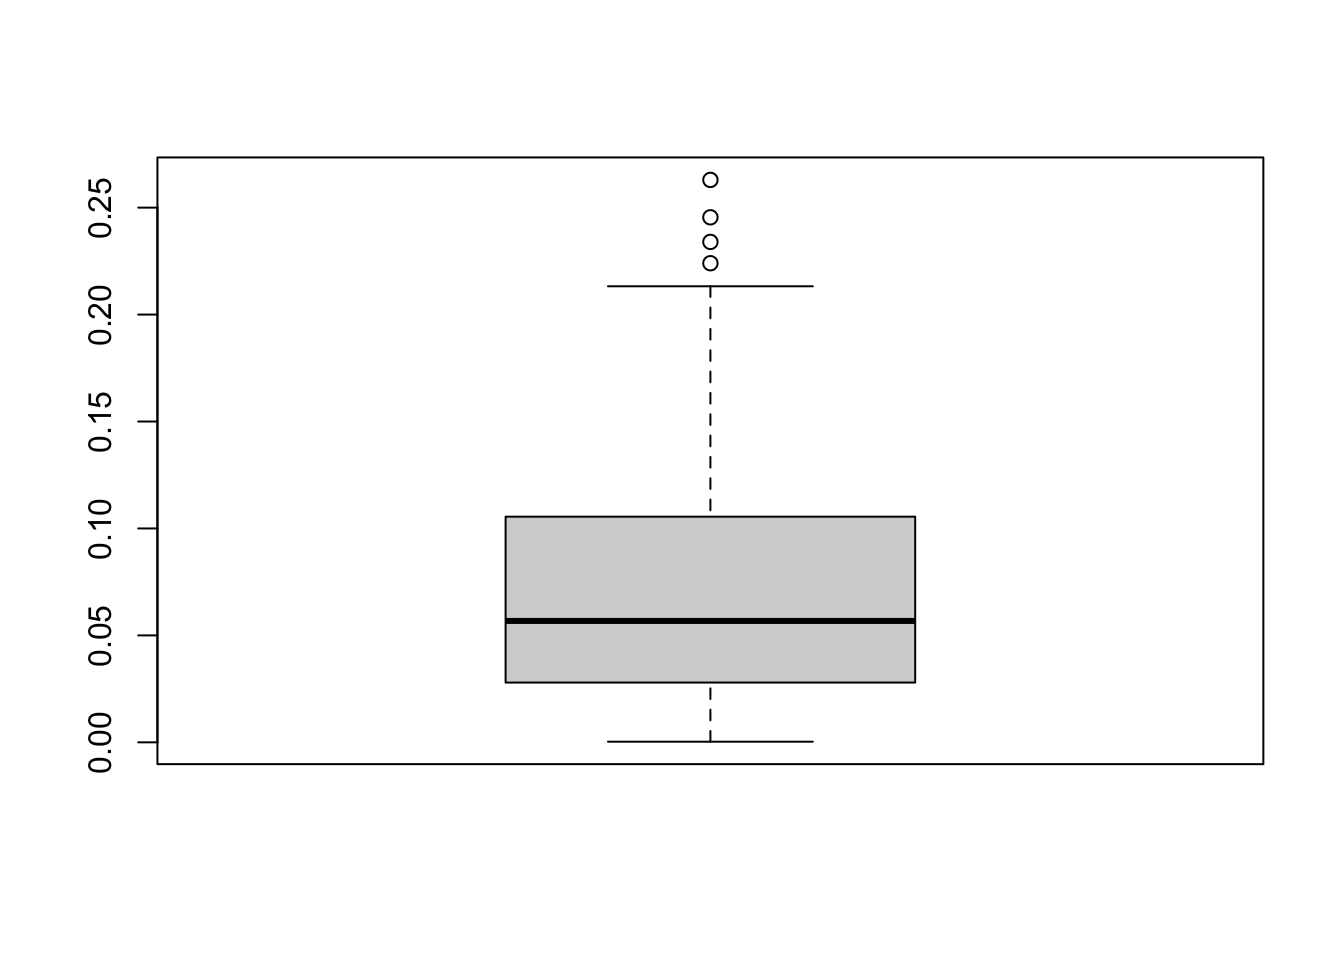
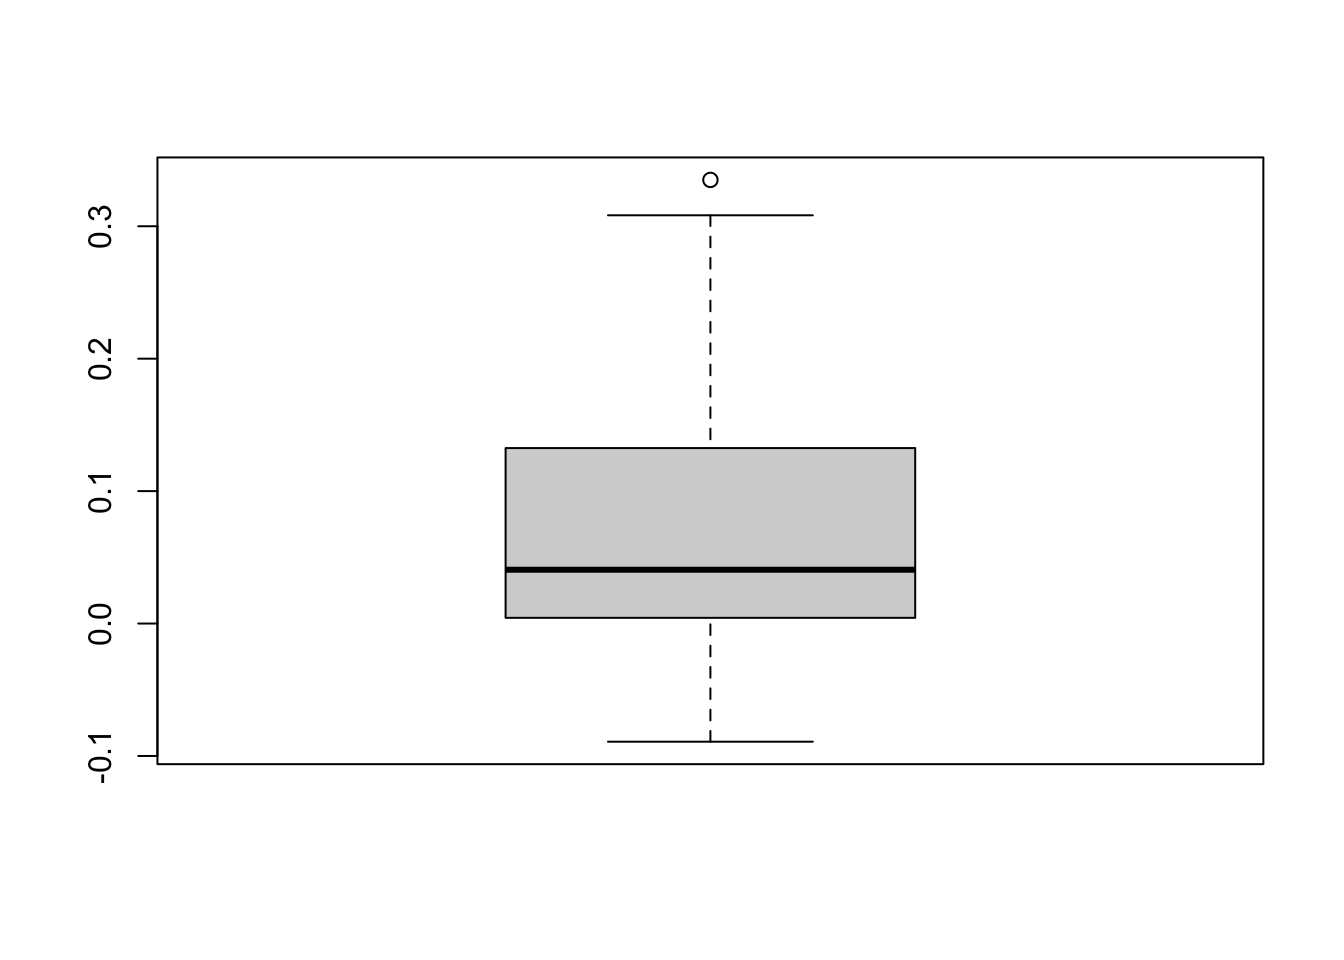
Build site.

diff --git a/docs/informative_prior.html b/docs/informative_prior.html
@@ -381,7 +381,7 @@ class="glyphicon glyphicon-ok text-success" aria-hidden="true"></span>
 <div class="tab-content">
 <div id="summary" class="tab-pane fade in active">
 <p>
-<strong>Last updated:</strong> 2025-02-27
+<strong>Last updated:</strong> 2025-02-28
 </p>
 <p>
 <strong>Checks:</strong> <span
@@ -512,15 +512,15 @@ project makes it easier to run your code on other machines.</p>
 <div class="panel panel-default">
 <div class="panel-heading">
 <p class="panel-title">
-<a data-toggle="collapse" data-parent="#workflowr-checks" href="#strongRepositoryversionstrongahrefhttpsgithubcomLifanLiangeQTLmethodstreeb9dfc50cdf4a25dbe1332c531845ee6237b68722targetblankb9dfc50a">
+<a data-toggle="collapse" data-parent="#workflowr-checks" href="#strongRepositoryversionstrongahrefhttpsgithubcomLifanLiangeQTLmethodstree600d2ad6179859e2e35338ea59d5751d25824338targetblank600d2ada">
 <span class="glyphicon glyphicon-ok text-success"
 aria-hidden="true"></span> <strong>Repository version:</strong>
-<a href="https://github.com/LifanLiang/eQTL_methods/tree/b9dfc50cdf4a25dbe1332c531845ee6237b68722" target="_blank">b9dfc50</a>
+<a href="https://github.com/LifanLiang/eQTL_methods/tree/600d2ad6179859e2e35338ea59d5751d25824338" target="_blank">600d2ad</a>
 </a>
 </p>
 </div>
 <div
[2 lines of base64/hex data omitted]
 class="panel-collapse collapse">
 <div class="panel-body">
 <p>
@@ -530,7 +530,7 @@ reproducibility.
 </p>
 <p>
 The results in this page were generated with repository version
-<a href="https://github.com/LifanLiang/eQTL_methods/tree/b9dfc50cdf4a25dbe1332c531845ee6237b68722" target="_blank">b9dfc50</a>.
+<a href="https://github.com/LifanLiang/eQTL_methods/tree/600d2ad6179859e2e35338ea59d5751d25824338" target="_blank">600d2ad</a>.
 See the <em>Past versions</em> tab to see a history of the changes made
 to the R Markdown and HTML files.
 </p>
@@ -546,6 +546,8 @@ were generated:
 <pre><code>
 Ignored files:
     Ignored:    .DS_Store
+    Ignored:    .RData
+    Ignored:    .Rhistory
 
 Untracked files:
     Untracked:  data/neuron_stim_genotype_chr9_2e6-3e6.rds
@@ -606,6 +608,40 @@ Message
 </tr>
 </thead>
 <tbody>
+<tr>
+<td>
+Rmd
+</td>
+<td>
+<a href="https://github.com/LifanLiang/eQTL_methods/blob/600d2ad6179859e2e35338ea59d5751d25824338/analysis/informative_prior.Rmd" target="_blank">600d2ad</a>
+</td>
+<td>
+Lifan Liang
+</td>
+<td>
+2025-02-28
+</td>
+<td>
+wflow_publish("analysis")
+</td>
+</tr>
+<tr>
+<td>
+html
+</td>
+<td>
+<a href="https://rawcdn.githack.com/LifanLiang/eQTL_methods/aaf0ed0dbbd8bd746aee55d57ec9d8462754cb0a/docs/informative_prior.html" target="_blank">aaf0ed0</a>
+</td>
+<td>
+Lifan Liang
+</td>
+<td>
+2025-02-27
+</td>
+<td>
+Build site.
+</td>
+</tr>
 <tr>
 <td>
 Rmd
@@ -887,7 +923,7 @@ pve &lt;- numeric(100L)
 #rand.cor &lt;- numeric(100L)
 for(i in 1:length(pve)) {
   sim.res &lt;- sim_group_pi(X,pi)
-  pve[i] &lt;- var(sim.res$y - sim.res$eps) / var(sim.res$y)
+  pve[i] &lt;- 1 - sum(sim.res$eps**2) / sum((sim.res$y - mean(sim.res$y))**2)
   #rand.cor[i] &lt;- max(abs(cor(sim.res$eps, sim.res$dat[,-1][,gamma!=0])))
 }
 boxplot(pve)</code></pre>
@@ -914,6 +950,17 @@ Date
 </tr>
 </thead>
 <tbody>
+<tr>
+<td>
+<a href="https://github.com/LifanLiang/eQTL_methods/blob/aaf0ed0dbbd8bd746aee55d57ec9d8462754cb0a/docs/figure/informative_prior.Rmd/unnamed-chunk-3-1.png" target="_blank">aaf0ed0</a>
+</td>
+<td>
+Lifan Liang
+</td>
+<td>
+2025-02-27
+</td>
+</tr>
 <tr>
 <td>
 <a href="https://github.com/LifanLiang/eQTL_methods/blob/8c045d017d4692cef4ba6cb53cae0407b5c24a1e/docs/figure/informative_prior.Rmd/unnamed-chunk-3-1.png" target="_blank">8c045d0</a>
@@ -979,6 +1026,17 @@ Date
 <tbody>
 <tr>
 <td>
+<a href="https://github.com/LifanLiang/eQTL_methods/blob/aaf0ed0dbbd8bd746aee55d57ec9d8462754cb0a/docs/figure/informative_prior.Rmd/unnamed-chunk-5-1.png" target="_blank">aaf0ed0</a>
+</td>
+<td>
+Lifan Liang
+</td>
+<td>
+2025-02-27
+</td>
+</tr>
+<tr>
+<td>
 <a href="https://github.com/LifanLiang/eQTL_methods/blob/8c045d017d4692cef4ba6cb53cae0407b5c24a1e/docs/figure/informative_prior.Rmd/unnamed-chunk-5-1.png" target="_blank">8c045d0</a>
 </td>
 <td>
@@ -1031,6 +1089,17 @@ Date
 </tr>
 </thead>
 <tbody>
+<tr>
+<td>
+<a href="https://github.com/LifanLiang/eQTL_methods/blob/aaf0ed0dbbd8bd746aee55d57ec9d8462754cb0a/docs/figure/informative_prior.Rmd/unnamed-chunk-6-1.png" target="_blank">aaf0ed0</a>
+</td>
+<td>
+Lifan Liang
+</td>
+<td>
+2025-02-27
+</td>
+</tr>
 <tr>
 <td>
 <a href="https://github.com/LifanLiang/eQTL_methods/blob/8c045d017d4692cef4ba6cb53cae0407b5c24a1e/docs/figure/informative_prior.Rmd/unnamed-chunk-6-1.png" target="_blank">8c045d0</a>
@@ -1093,6 +1162,17 @@ Date
 <tbody>
 <tr>
 <td>
+<a href="https://github.com/LifanLiang/eQTL_methods/blob/aaf0ed0dbbd8bd746aee55d57ec9d8462754cb0a/docs/figure/informative_prior.Rmd/unnamed-chunk-7-1.png" target="_blank">aaf0ed0</a>
+</td>
+<td>
+Lifan Liang
+</td>
+<td>
+2025-02-27
+</td>
+</tr>
+<tr>
+<td>
 <a href="https://github.com/LifanLiang/eQTL_methods/blob/8c045d017d4692cef4ba6cb53cae0407b5c24a1e/docs/figure/informative_prior.Rmd/unnamed-chunk-7-1.png" target="_blank">8c045d0</a>
 </td>
 <td>
@@ -1147,6 +1227,17 @@ Date
 <tbody>
 <tr>
 <td>
+<a href="https://github.com/LifanLiang/eQTL_methods/blob/aaf0ed0dbbd8bd746aee55d57ec9d8462754cb0a/docs/figure/informative_prior.Rmd/unnamed-chunk-8-1.png" target="_blank">aaf0ed0</a>
+</td>
+<td>
+Lifan Liang
+</td>
+<td>
+2025-02-27
+</td>
+</tr>
+<tr>
+<td>
 <a href="https://github.com/LifanLiang/eQTL_methods/blob/8c045d017d4692cef4ba6cb53cae0407b5c24a1e/docs/figure/informative_prior.Rmd/unnamed-chunk-8-1.png" target="_blank">8c045d0</a>
 </td>
 <td>
@@ -1180,6 +1271,9 @@ metric in the test set is <span class="math inline">\(R^2\)</span>. The
 two SuSIE models is one with priors and one without. Note that
 performance varies a lot depending on the simulated data and the
 training-testing split.</p>
+<pre class="r"><code>calc.r2 &lt;- function(y.test, y.hat, y.mean) {
+  1 - sum((y.test-y.hat)**2) / sum((y.test-y.mean)**2)
+}</code></pre>
 <pre class="r"><code>set.seed(22)
 sim.res &lt;- sim_group_pi(X, pi)
 inds &lt;- sample(rep(1:5,times=20))
@@ -1206,56 +1300,32 @@ for(i in 1:5) {
   dat.r2[i,&quot;susie.prior&quot;] &lt;- cor(y.test,susie.y)**2
 }
 
-boxplot(dat.r2, ylab=&quot;R2&quot;, col=2:4)</code></pre>
-<p><img src="figure/informative_prior.Rmd/unnamed-chunk-9-1.png" width="672" style="display: block; margin: auto;" /></p>
-<p>
-<button type="button" class="btn btn-default btn-xs btn-workflowr btn-workflowr-fig" data-toggle="collapse" data-target="#fig-unnamed-chunk-9-1">
-Past versions of unnamed-chunk-9-1.png
-</button>
-</p>
-<div id="fig-unnamed-chunk-9-1" class="collapse">
-<div class="table-responsive">
-<table class="table table-condensed table-hover">
-<thead>
-<tr>
-<th>
-Version
-</th>
-<th>
-Author
-</th>
-<th>
-Date
-</th>
-</tr>
-</thead>
-<tbody>
-<tr>
-<td>
-<a href="https://github.com/LifanLiang/eQTL_methods/blob/8c045d017d4692cef4ba6cb53cae0407b5c24a1e/docs/figure/informative_prior.Rmd/unnamed-chunk-9-1.png" target="_blank">8c045d0</a>
-</td>
-<td>
-Lifan Liang
-</td>
-<td>
-2025-02-27
-</td>
-</tr>
-<tr>
-<td>
-<a href="https://github.com/LifanLiang/eQTL_methods/blob/fcd0e96ca578cac430328b890f3edc9afece3ee4/docs/figure/informative_prior.Rmd/unnamed-chunk-9-1.png" target="_blank">fcd0e96</a>
-</td>
-<td>
-Lifan Liang
-</td>
-<td>
-2025-02-26
-</td>
-</tr>
-</tbody>
-</table>
-</div>
-</div>
+boxplot(dat.r2, ylab=&quot;R2 (squred correlation)&quot;, col=2:4)</code></pre>
+<p><img src="figure/informative_prior.Rmd/unnamed-chunk-10-1.png" width="672" style="display: block; margin: auto;" /></p>
+<pre class="r"><code>dat.r2 &lt;- matrix(nrow=5,ncol=3)
+colnames(dat.r2) &lt;- c(&quot;lasso&quot;,&quot;susie&quot;,&quot;susie.prior&quot;)
+
+for(i in 1:5) {
+  X.train &lt;- sim.res$X[inds!=i,]
+  y.train &lt;- sim.res$y[inds!=i]
+  X.test &lt;- sim.res$X[inds==i,]
+  y.test &lt;- sim.res$y[inds==i]
+  
+  lasso.fit &lt;- glmnet(X.train, y.train,lambda = 0.3)
+  lasso.y &lt;- predict(lasso.fit, X.test)
+  dat.r2[i,&quot;lasso&quot;] &lt;- calc.r2(y.test,lasso.y,mean(y.train))
+  
+  susie.fit &lt;- susie(X.train, y.train, L=5, standardize = F)
+  susie.y &lt;- predict(susie.fit, X.test, &quot;response&quot;)
+  dat.r2[i,&quot;susie&quot;] &lt;- calc.r2(y.test,susie.y,mean(y.train))
+  
+  susie.fit &lt;- susie(X.train, y.train, prior_weights = sim.res$pi, L=5, standardize = F)
+  susie.y &lt;- predict(susie.fit, X.test, &quot;response&quot;)
+  dat.r2[i,&quot;susie.prior&quot;] &lt;- calc.r2(y.test,susie.y,mean(y.train))
+}
+
+boxplot(dat.r2, ylab=&quot;R2 (compared to intercept model)&quot;, col=2:4)</code></pre>
+<p><img src="figure/informative_prior.Rmd/unnamed-chunk-11-1.png" width="672" style="display: block; margin: auto;" /></p>
 <br>
 <p>
 <button type="button" class="btn btn-default btn-workflowr btn-workflowr-sessioninfo" data-toggle="collapse" data-target="#workflowr-sessioninfo" style="display: block;">
